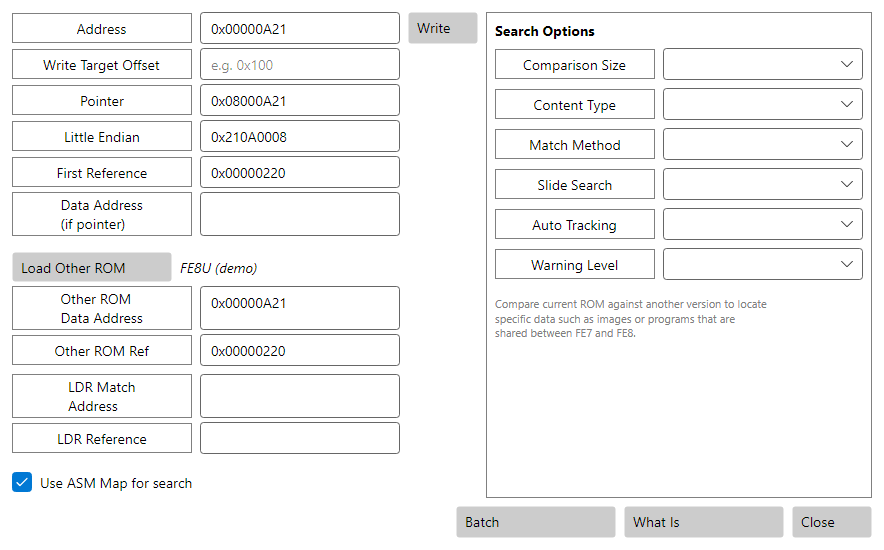
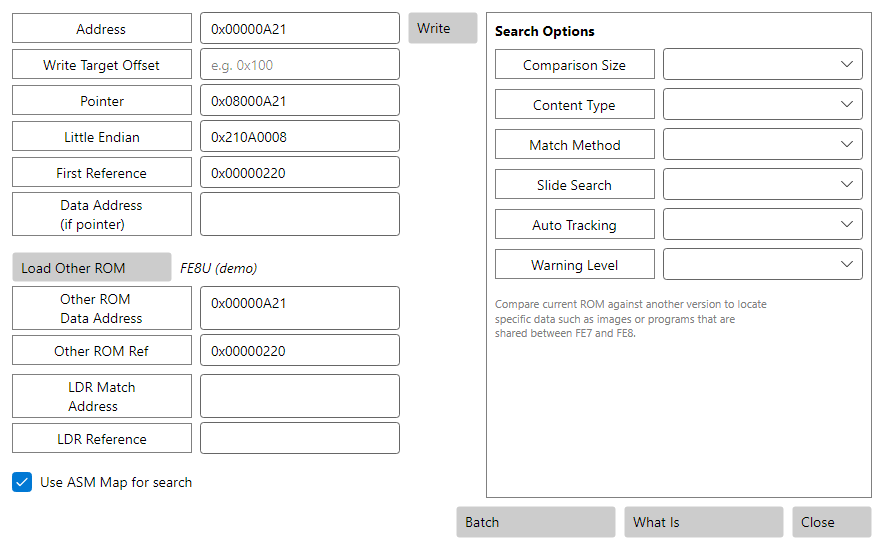
fix(avalonia): zero-region warning + IsLoading reset + Log.Error formatting (#969 review)
Address the 3 auto-bot findings on PR #969:

1. PointerToolView.SelectFirstItem (screenshot seeding): wrap the body in
   try/FINALLY so _vm.IsLoading is ALWAYS reset even if SeedDemoCrossRom
   throws — previously a throw left the VM stuck "loading" for the rest of
   the --screenshot-all harness run. Also fix the Log.Error call: Log.Error
   is params string[] with NO composite formatting, so a literal "{0}" was
   written verbatim — replaced with a single interpolated string.

2. PointerToolViewModel.EvaluateOtherRomWarning: port WF
   PointerToolForm.checkZeroData semantics. The ZERO warning is a zero-
   REGION check (more than half of the next 0x200 bytes from the matched
   address are 0x00), not u32(matchAddr)==0. New bounds-safe IsZeroRegion
   helper mirrors WF exactly (clamp end to length, start-beyond-buffer ->
   false, flag when zeroCount > windowLen/2) so the Avalonia "Zero region"
   warning agrees with WF and with the label text. The very-far check is
   unchanged. Removed the now-dead U32Read helper.

3. PointerToolViewModel.SearchOtherRom catch: same Log.Error "{0}" bug —
   replaced with a single interpolated string so the exception is logged.

Tests: two new PointerToolParityTests cases prove the zero-region check
(a >half-zero 0x200 window raises HasZeroAtDirect; a 0xAB-filled window
does not). All three projects re-run: Avalonia.Tests 7521 passed / 0
failed; Core.Tests 2740 passed / 10 pre-existing SkillSystemsAnime FE8U-
[…]

diff --git a/FEBuilderGBA.Avalonia/ViewModels/PointerToolViewModel.cs b/FEBuilderGBA.Avalonia/ViewModels/PointerToolViewModel.cs
@@ -311,31 +311,59 @@ namespace FEBuilderGBA.Avalonia.ViewModels
             {
                 // A grep must never throw on the UI thread. On any fault clear
                 // the fields and surface a diagnostic rather than crashing.
+                // Log.Error is params string[] (NO composite formatting) — use
+                // a single interpolated string so the exception is actually
+                // logged (#969 review point 3).
                 ClearOtherRomFields();
-                Log.Error("PointerToolViewModel.SearchOtherRom: {0}", ex.Message);
+                Log.Error($"PointerToolViewModel.SearchOtherRom: {ex}");
             }
         }
+
+        /// <summary>Window size (bytes) WF samples for the zero-region check.</summary>
+        const uint ZeroRegionWindow = 0x200;
 
         /// <summary>
         /// Evaluate the WF ERROR_ZERO / ERROR_VERYFAR warning pair against a
         /// cross-ROM match address found in the OTHER ROM. Returns the ZERO flag
-        /// (the matched address points into a zero-filled region of the other
-        /// ROM); <paramref name="isFar"/> receives the VERYFAR flag (the matched
-        /// address lies in the last quarter of the other ROM — a coarse "too far
-        /// to be a real match" heuristic mirroring WF's intent).
+        /// — the matched address sits in a zero-FILLED REGION (see
+        /// <see cref="IsZeroRegion"/>); <paramref name="isFar"/> receives the
+        /// VERYFAR flag (the matched address lies in the last quarter of the
+        /// other ROM — a coarse "too far to be a real match" heuristic).
         ///
         /// <para>Bounds are checked against <c>_otherRomData.Length</c>
-        /// explicitly (Copilot CLI review point 3); an out-of-bounds match
+        /// explicitly (Copilot CLI plan-review point 3); an out-of-bounds match
         /// address yields both-false (no warning, no throw).</para>
         /// </summary>
         bool EvaluateOtherRomWarning(uint matchAddr, out bool isFar)
         {
             isFar = false;
             if (_otherRomData == null || _otherRomData.Length == 0) return false;
-            if (matchAddr + 3 >= (uint)_otherRomData.Length) return false;
-            bool zero = U32Read(_otherRomData, matchAddr) == 0;
+            if (matchAddr >= (uint)_otherRomData.Length) return false;
             isFar = matchAddr > (uint)(_otherRomData.Length * 3 / 4);
-            return zero;
+            return IsZeroRegion(_otherRomData, matchAddr, matchAddr + ZeroRegionWindow);
+        }
+
+        /// <summary>
+        /// Port of WF <c>PointerToolForm.checkZeroData</c> (#969 review point
+        /// 2): a region <c>[start, end)</c> is "zero" when MORE THAN HALF of its
+        /// bytes are <c>0x00</c>. WF samples a 0x200-byte window from the match
+        /// address. Bounds-safe: <c>end</c> is clamped to the buffer length, and
+        /// a <c>start</c> beyond the buffer returns <c>false</c> — mirroring WF
+        /// exactly so the Avalonia "Zero region" warning agrees with WF and with
+        /// the label text.
+        /// </summary>
+        static bool IsZeroRegion(byte[] data, uint start, uint end)
+        {
+            if (data.Length < start) return false;
+            if (data.Length < end) end = (uint)data.Length;
+            if (start >= end) return false;
+
+            int zeroCount = 0;
+            for (uint i = start; i < end; i++)
+            {
+                if (data[i] == 0x0) zeroCount++;
+            }
+            return zeroCount > (int)(end - start) / 2;
         }
 
         /// <summary>
@@ -354,15 +382,6 @@ namespace FEBuilderGBA.Avalonia.ViewModels
             HasVeryFarAtDirect = false;
             HasZeroAtLdr = false;
             HasVeryFarAtLdr = false;
-        }
-
-        static uint U32Read(byte[] data, uint offset)
-        {
-            if (offset + 3 >= (uint)data.Length) return 0;
-            return data[offset]
-                 | ((uint)data[offset + 1] << 8)
-                 | ((uint)data[offset + 2] << 16)
-                 | ((uint)data[offset + 3] << 24);
         }
 
         /// <summary>Search the ROM for all 4-byte-aligned pointer references to the given address.</summary>

diff --git a/FEBuilderGBA.Avalonia.Tests/GapSweep/PointerToolParityTests.cs b/FEBuilderGBA.Avalonia.Tests/GapSweep/PointerToolParityTests.cs
@@ -854,6 +854,52 @@ public class PointerToolParityTests
         });
     }
 
+    [Fact]
+    public void ViewModel_LoadOtherRom_ZeroRegionTarget_RaisesZeroWarning()
+    {
+        // #969 review point 2: the ZERO warning is a zero-REGION check (WF
+        // checkZeroData) — more than half of the next 0x200 bytes from the
+        // matched address are 0x00. The target window here is left all-zero
+        // (the default buffer) EXCEPT the planted pointer is elsewhere, so the
+        // [target, target+0x200) window is >half zero -> warning raised.
+        const uint rawRefOffset = 0x8000;
+        const uint target = 0x4000; // [0x4000, 0x4200) is all zero by default
+        byte[] other = MakeOtherRomWithRawPointer(rawRefOffset, target);
+
+        RunWithOtherRom(other, vm =>
+        {
+            vm.AddressInput = $"0x{target:X08}";
+            vm.RunSearch();
+            // Raw match found, and the matched region is >half zero.
+            Assert.Equal($"0x{rawRefOffset:X08}", vm.OtherRomRefPointer);
+            Assert.True(vm.HasZeroAtDirect,
+                "A matched address whose next 0x200 bytes are >half zero must raise the ZERO warning");
+        });
+    }
+
+    [Fact]
+    public void ViewModel_LoadOtherRom_NonZeroRegionTarget_NoZeroWarning()
+    {
+        // The inverse: fill the [target, target+0x200) window with non-zero
+        // bytes so the zero-region check is NOT satisfied -> no ZERO warning.
+        const uint rawRefOffset = 0x8000;
+        const uint target = 0x4000;
+        byte[] other = MakeOtherRomWithRawPointer(rawRefOffset, target);
+        // Fill the matched window with 0xAB (well over half non-zero).
+        for (uint i = target; i < target + 0x200 && i < (uint)other.Length; i++)
+            other[i] = 0xAB;
+        // The reference word must survive the fill (it is outside the window).
+
+        RunWithOtherRom(other, vm =>
+        {
+            vm.AddressInput = $"0x{target:X08}";
+            vm.RunSearch();
+            Assert.Equal($"0x{rawRefOffset:X08}", vm.OtherRomRefPointer);
+            Assert.False(vm.HasZeroAtDirect,
+                "A matched address whose next 0x200 bytes are mostly non-zero must NOT raise the ZERO warning");
+        });
+    }
+
     // ---------------------------- Helpers ----------------------------
 
     /// <summary>

diff --git a/FEBuilderGBA.Avalonia/Views/PointerToolView.axaml.cs b/FEBuilderGBA.Avalonia/Views/PointerToolView.axaml.cs
@@ -202,20 +202,27 @@ namespace FEBuilderGBA.Avalonia.Views
         /// </summary>
         public void SelectFirstItem()
         {
+            if (!App.ScreenshotAllMode) return;
+            // try/FINALLY so IsLoading is ALWAYS reset even if the seeding body
+            // throws — otherwise the VM stays stuck "loading" for the rest of
+            // the --screenshot-all harness run (#969 review point 1).
+            _vm.IsLoading = true;
             try
             {
-                if (App.ScreenshotAllMode)
-                {
-                    _vm.IsLoading = true;
-                    _vm.SeedDemoCrossRom();
-                    AddressTextBox.Text = _vm.AddressInput;
-                    _vm.IsLoading = false;
-                    _vm.MarkClean();
-                }
+                _vm.SeedDemoCrossRom();
+                AddressTextBox.Text = _vm.AddressInput;
+                _vm.MarkClean();
             }
             catch (Exception ex)
             {
-                Log.Error("PointerToolView.SelectFirstItem: {0}", ex.Message);
+                // Log.Error is params string[] (NO composite formatting) — a
+                // literal "{0}" would be written verbatim, so use a single
+                // interpolated string (#969 review point 1).
+                Log.Error($"PointerToolView.SelectFirstItem: {ex}");
+            }
+            finally
+            {
+                _vm.IsLoading = false;
             }
         }
     }